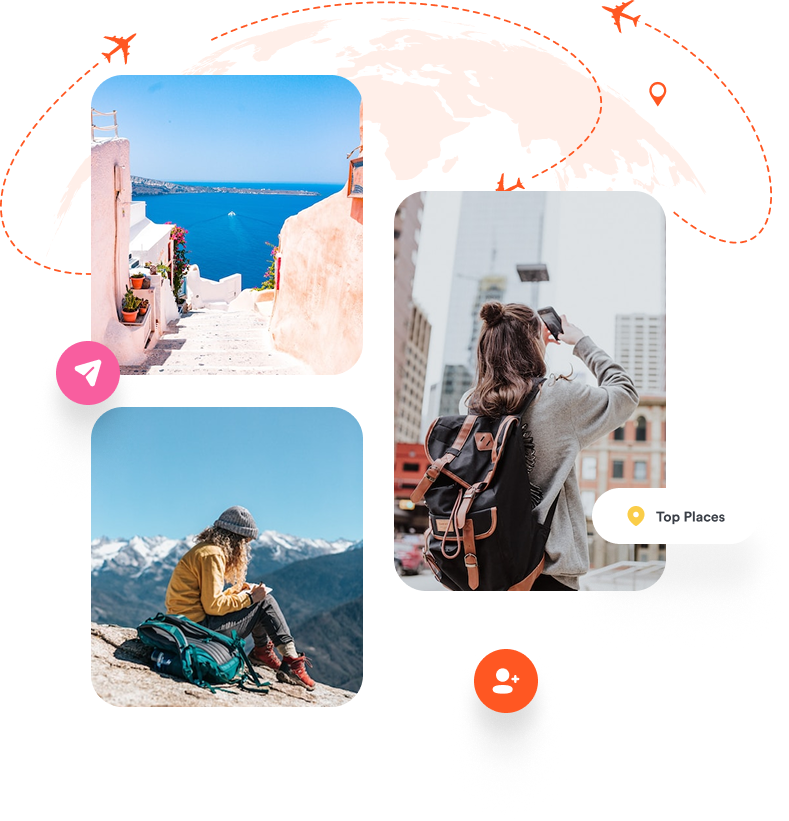
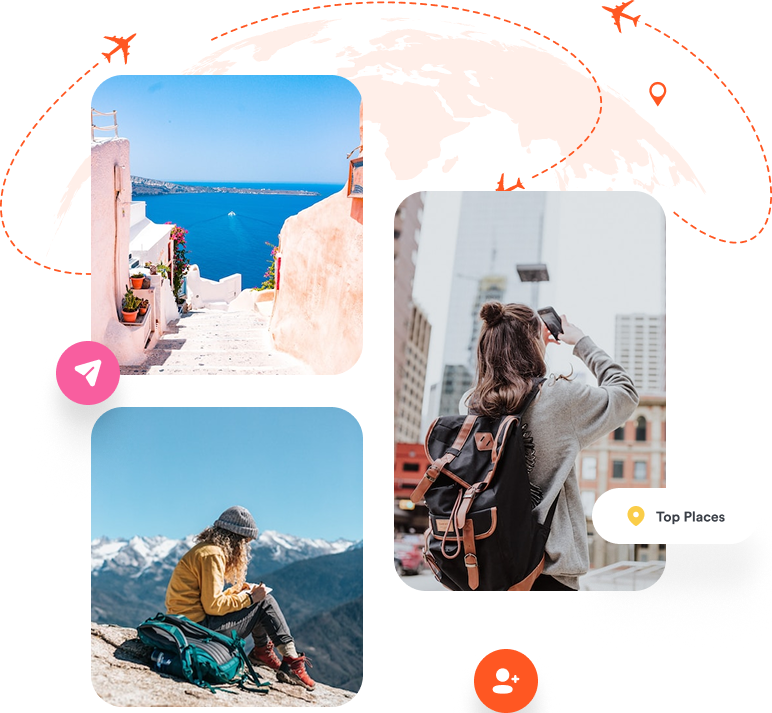
[TV_A1_03]: added absolute background to hero section and added crooper large hero image

diff --git a/src/styles/sass/layouts/_hero.scss b/src/styles/sass/layouts/_hero.scss
@@ -7,29 +7,29 @@
     @include mixins.flex;
 
     &__bg {
-        position: fixed;
-        height: 348px;
-        width: 272px;
-        top: -32px;
-        left: -33px;
+        position: absolute;
+        height: functions.rem(348px);
+        width: functions.rem(272px);
+        top: functions.rem(-150px);
+        left: functions.rem(-33px);
         background-color: variables.$color-orange;
         opacity: 0.5;
         filter: blur(150px);
         border-radius: variables.$radius-round;
         z-index: -1;
         @include mixins.responsive-screen(sm) {
-            height: 500px;
-            width: 500px;
-            top: -174px;
-            left: -163px;
+            height: functions.rem(500px);
+            width: functions.rem(500px);
+            top: functions.rem(-288px);
+            left: functions.rem(-163px);
             filter: blur(200px);
         }
 
         @include mixins.responsive-screen(md) {
-            height: 495px;
-            width: 504px;
-            top: 9px;
-            left: -40px;
+            height: functions.rem(495px);
+            width: functions.rem(504px);
+            top: functions.rem(-138.09px);
+            left: functions.rem(-40px);
         }
 
         &--arrows {
@@ -50,7 +50,7 @@
         @include mixins.flex(column-reverse, space-between, center);
 
         @include mixins.responsive-screen(md) {
-            @include mixins.flex(row, space-between, center, 0px);
+            flex-direction: row;
         }
 
         &--arrows {
@@ -142,7 +142,9 @@
         );
 
         @include mixins.responsive-screen(sm) {
-            @include mixins.flex(row, safe center, center, variables.$space-xs);
+            flex-direction: row;
+            justify-content: safe center;
+            gap: variables.$space-xs;
         }
         @include mixins.responsive-screen(md) {
             justify-content: flex-start;
